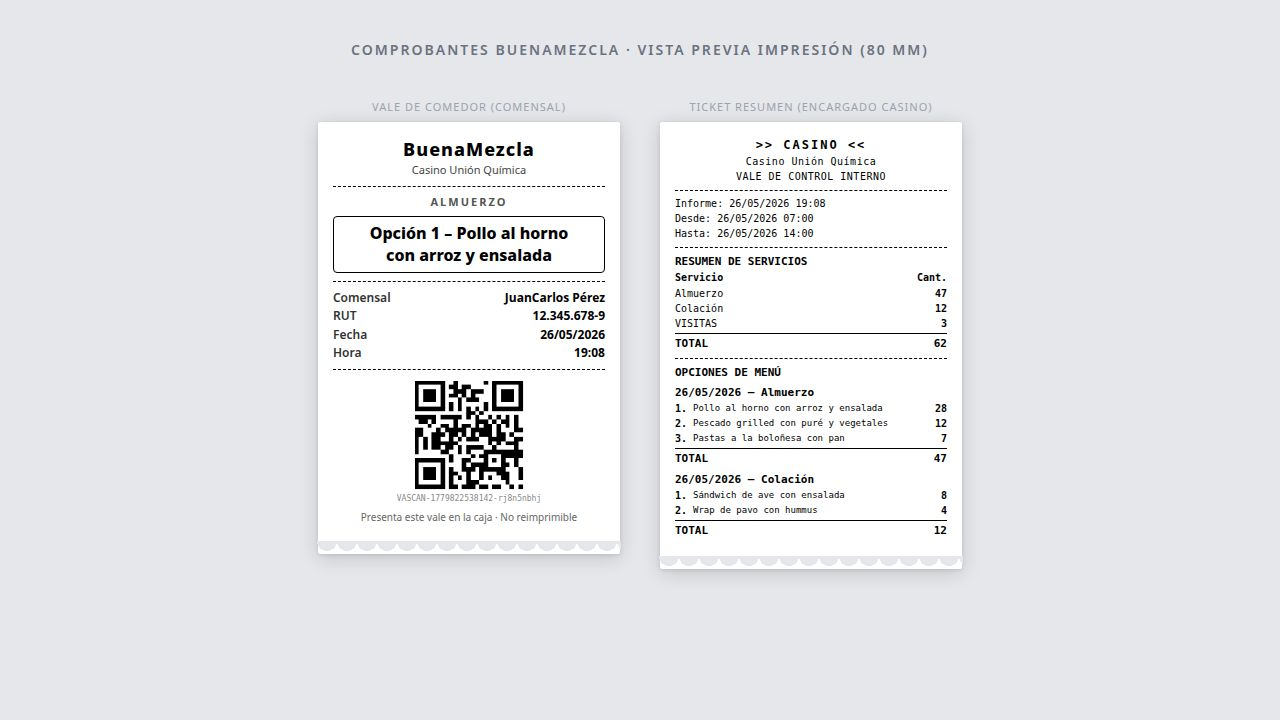
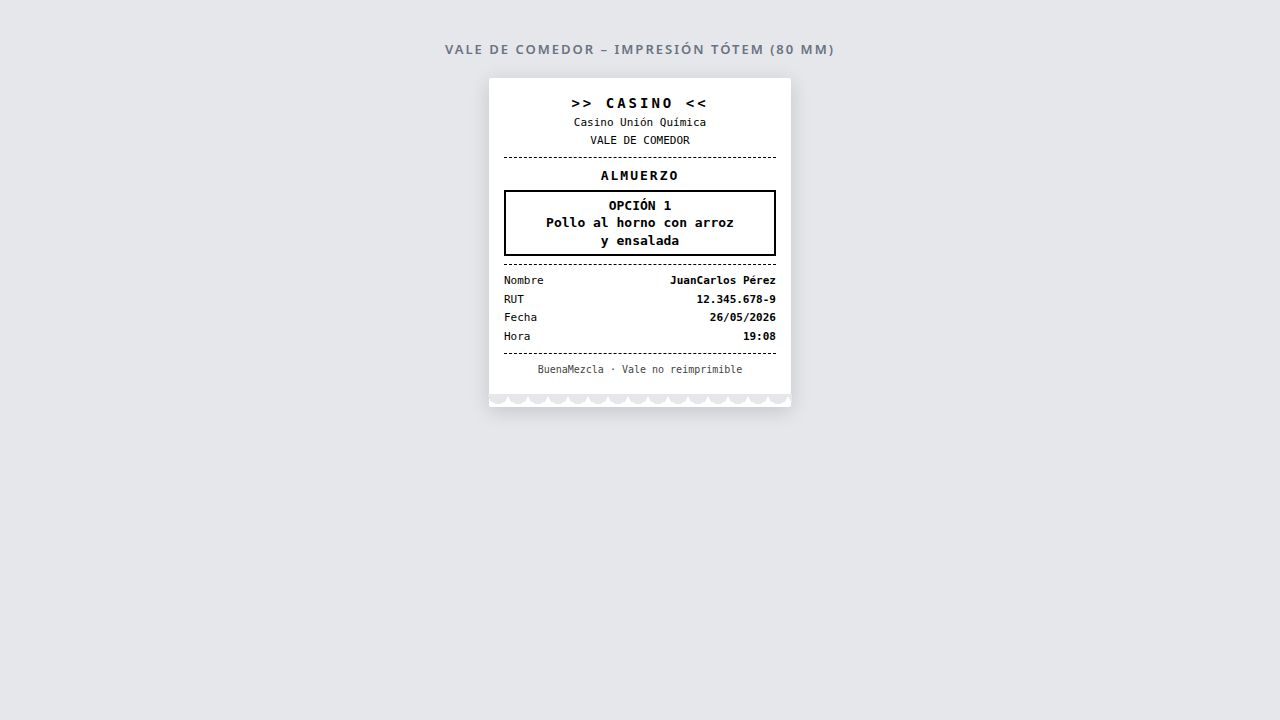
Update ticket printing to remove QR codes and use a cleaner format
Modify ticket generation to exclude QR codes, adjust styling for monospace font, and update headers for a cleaner, more readable format in the kiosk and preview.

Replit-Commit-Author: Agent
Replit-Commit-Session-Id: b3e77858-5b22-4d47-997c-fdf95565c38d
Replit-Commit-Checkpoint-Type: full_checkpoint
Replit-Commit-Event-Id: d154f62d-fc7c-4083-a4a6-2461d89e03b9
Replit-Commit-Screenshot-Url: https://storage.googleapis.com/screenshot-production-us-central1/ab328069-2a8e-4ba7-b005-7c5caf268c16/b3e77858-5b22-4d47-997c-fdf95565c38d/P0Rvg5t
Replit-Helium-Checkpoint-Created: true

Changed region(s): [[0.25, 0.0611, 0.75, 0.7944]]

diff --git a/public/ticket-preview.html b/public/ticket-preview.html
@@ -2,7 +2,6 @@
 <html lang="es">
 <head>
 <meta charset="UTF-8">
-<meta name="viewport" content="width=device-width, initial-scale=1.0">
 <title>Vale de Comedor – BuenaMezcla</title>
 <style>
   * { margin: 0; padding: 0; box-sizing: border-box; }
@@ -15,45 +14,21 @@
     min-height: 100vh;
     padding: 40px 20px;
     font-family: Arial, sans-serif;
-    gap: 40px;
+    gap: 20px;
   }
-  h1 {
-    font-size: 14px;
-    color: #6b7280;
-    text-transform: uppercase;
-    letter-spacing: 2px;
-    font-weight: 600;
-  }
-  .ticket-wrapper {
-    display: flex;
-    gap: 40px;
-    align-items: flex-start;
-    flex-wrap: wrap;
-    justify-content: center;
-  }
-  .ticket-label {
-    text-align: center;
-    font-size: 11px;
-    color: #9ca3af;
-    margin-bottom: 8px;
-    text-transform: uppercase;
-    letter-spacing: 1px;
-  }
-
-  /* ── Ticket vale (80mm térmico) ── */
+  h1 { font-size: 13px; color: #6b7280; text-transform: uppercase; letter-spacing: 2px; font-weight: 600; }
   .ticket {
-    width: 302px; /* 80mm @ 96dpi */
+    width: 302px;
     background: #fff;
     padding: 15px 15px 30px 15px;
-    font-family: "Helvetica", "Arial", sans-serif;
+    font-family: "Courier New", "Courier", monospace;
     font-size: 12px;
-    line-height: 1.35;
+    line-height: 1.5;
     color: #000;
-    box-shadow: 0 4px 20px rgba(0,0,0,0.15), 0 1px 4px rgba(0,0,0,0.1);
+    box-shadow: 0 4px 20px rgba(0,0,0,0.15);
     position: relative;
     border-radius: 2px;
   }
-  /* Torn bottom edge */
   .ticket::after {
     content: "";
     position: absolute;
@@ -63,196 +38,54 @@
     background-size: 20px 14px;
     background-repeat: repeat-x;
   }
-  .pv-center { text-align: center; }
-  .pv-brand { font-size: 18px; font-weight: 800; letter-spacing: 1px; text-align: center; }
-  .pv-sub { font-size: 11px; margin-top: 2px; text-align: center; color: #444; }
-  .pv-hr { border: none; border-top: 1px dashed #000; margin: 8px 0; }
-  .pv-familia {
-    text-align: center;
-    text-transform: uppercase;
-    font-weight: 700;
-    font-size: 11px;
-    letter-spacing: 2px;
-    color: #555;
+  .t-center   { text-align: center; }
+  .t-title    { font-size: 14px; font-weight: 800; letter-spacing: 3px; text-align: center; }
+  .t-sub      { font-size: 11px; text-align: center; margin: 1px 0; }
+  .t-hr       { border: none; border-top: 1px dashed #000; margin: 8px 0; }
+  .t-familia  { font-size: 13px; font-weight: 800; text-align: center; letter-spacing: 2px; margin: 4px 0 2px; }
+  .t-opcion   {
+    font-size: 13px; font-weight: 800; text-align: center;
+    margin: 4px 0 8px;
+    padding: 5px 6px;
+    border: 2px solid #000;
+    line-height: 1.35;
   }
-  .pv-opcion {
-    text-align: center;
-    font-size: 16px;
-    font-weight: 800;
-    margin: 6px 0;
-    padding: 6px;
-    border: 1.5px solid #000;
-    border-radius: 4px;
-  }
-  .pv-row {
-    display: flex;
-    justify-content: space-between;
-    gap: 12px;
-    margin: 2px 0;
-    font-size: 12px;
-  }
-  .pv-label { font-weight: 600; color: #333; }
-  .pv-value { text-align: right; font-weight: 700; }
-  .pv-qr { display: flex; justify-content: center; margin: 10px 0 4px; }
-  .pv-qr img { width: 110px; height: 110px; }
-  .pv-qr-code { font-size: 8px; text-align: center; color: #888; margin-bottom: 4px; font-family: monospace; }
-  .pv-foot { text-align: center; font-size: 10px; color: #666; margin-top: 6px; }
-
-  /* ── Resumen ticket ── */
-  .ticket-resumen {
-    width: 302px;
-    background: #fff;
-    padding: 15px 15px 30px 15px;
-    font-family: "Courier New", "Courier", monospace;
-    font-size: 11px;
-    line-height: 1.4;
-    color: #000;
-    box-shadow: 0 4px 20px rgba(0,0,0,0.15), 0 1px 4px rgba(0,0,0,0.1);
-    position: relative;
-    border-radius: 2px;
-  }
-  .ticket-resumen::after {
-    content: "";
-    position: absolute;
-    bottom: -1px; left: -1px; right: -1px;
-    height: 14px;
-    background: radial-gradient(circle at 50% 0%, #e5e7eb 10px, transparent 10px);
-    background-size: 20px 14px;
-    background-repeat: repeat-x;
-  }
-  .pr-center { text-align: center; }
-  .pr-title { font-size: 12px; font-weight: 800; letter-spacing: 2px; text-align: center; text-transform: uppercase; }
-  .pr-subtitle { font-size: 10px; text-align: center; margin: 1px 0; letter-spacing: 0.5px; }
-  .pr-text { font-size: 10px; margin: 1px 0; }
-  .pr-hr { border: none; border-top: 1px dashed #000; margin: 6px 0; }
-  .pr-section { font-weight: 700; font-size: 11px; margin: 5px 0 2px; }
-  .pr-col-hdr { display: flex; font-size: 10px; font-weight: 700; margin-bottom: 1px; padding-bottom: 1px; }
-  .pr-svc-row { display: flex; font-size: 10px; margin: 1px 0; }
-  .pr-col-svc { flex: 1; }
-  .pr-col-qty { width: 38px; text-align: right; font-weight: 700; white-space: nowrap; }
-  .pr-total-row { display: flex; font-size: 11px; font-weight: 800; border-top: 1px solid #000; margin-top: 2px; padding-top: 2px; }
-  .pr-date-hdr { font-weight: 700; font-size: 11px; margin: 5px 0 2px; }
-  .pr-opt-row { display: flex; font-size: 10px; margin: 1px 0; align-items: flex-start; }
-  .pr-opt-num { width: 18px; font-weight: 700; flex-shrink: 0; }
-  .pr-opt-desc { flex: 1; font-size: 9px; padding-right: 3px; word-break: break-word; }
-  .pr-opt-qty { width: 38px; text-align: right; font-weight: 700; flex-shrink: 0; }
-  .pr-opt-total { display: flex; font-size: 11px; font-weight: 800; border-top: 1px solid #000; margin-top: 2px; padding-top: 2px; }
+  .t-row      { display: flex; justify-content: space-between; font-size: 11px; margin: 2px 0; }
+  .t-label    { font-weight: 400; }
+  .t-value    { font-weight: 700; text-align: right; }
+  .t-foot     { text-align: center; font-size: 10px; margin-top: 8px; color: #444; }
 </style>
 </head>
 <body>
 
-<h1>Comprobantes BuenaMezcla · Vista previa impresión (80 mm)</h1>
+<h1>Vale de comedor – impresión tótem (80 mm)</h1>
 
-<div class="ticket-wrapper">
-
-  <!-- ── VALE INDIVIDUAL ── -->
-  <div>
-    <div class="ticket-label">Vale de comedor (comensal)</div>
-    <div class="ticket">
-      <div class="pv-brand">BuenaMezcla</div>
-      <div class="pv-sub">Casino Unión Química</div>
-      <hr class="pv-hr">
-      <div class="pv-familia">Almuerzo</div>
-      <div class="pv-opcion">Opción 1 – Pollo al horno<br>con arroz y ensalada</div>
-      <hr class="pv-hr">
-      <div class="pv-row">
-        <span class="pv-label">Comensal</span>
-        <span class="pv-value">JuanCarlos Pérez</span>
-      </div>
-      <div class="pv-row">
-        <span class="pv-label">RUT</span>
-        <span class="pv-value">12.345.678-9</span>
-      </div>
-      <div class="pv-row">
-        <span class="pv-label">Fecha</span>
-        <span class="pv-value">26/05/2026</span>
-      </div>
-      <div class="pv-row">
-        <span class="pv-label">Hora</span>
-        <span class="pv-value">19:08</span>
-      </div>
-      <hr class="pv-hr">
-      <div class="pv-qr">
-        <img src="https://api.qrserver.com/v1/create-qr-code/?size=120x120&data=VASCAN-1779822538142-rj8n5nbhj" alt="QR Vale">
-      </div>
-      <div class="pv-qr-code">VASCAN-1779822538142-rj8n5nbhj</div>
-      <div class="pv-foot">Presenta este vale en la caja · No reimprimible</div>
-    </div>
+<div class="ticket">
+  <div class="t-title">&gt;&gt; CASINO &lt;&lt;</div>
+  <div class="t-sub">Casino Unión Química</div>
+  <div class="t-sub">VALE DE COMEDOR</div>
+  <hr class="t-hr">
+  <div class="t-familia">ALMUERZO</div>
+  <div class="t-opcion">OPCIÓN 1<br>Pollo al horno con arroz<br>y ensalada</div>
+  <hr class="t-hr">
+  <div class="t-row">
+    <span class="t-label">Nombre</span>
+    <span class="t-value">JuanCarlos Pérez</span>
   </div>
-
-  <!-- ── RESUMEN DEL DÍA ── -->
-  <div>
-    <div class="ticket-label">Ticket resumen (encargado casino)</div>
-    <div class="ticket-resumen">
-      <div class="pr-title">&gt;&gt; CASINO &lt;&lt;</div>
-      <div class="pr-subtitle">Casino Unión Química</div>
-      <div class="pr-subtitle">VALE DE CONTROL INTERNO</div>
-      <hr class="pr-hr">
-      <div class="pr-text">Informe: 26/05/2026 19:08</div>
-      <div class="pr-text">Desde:   26/05/2026 07:00</div>
-      <div class="pr-text">Hasta:   26/05/2026 14:00</div>
-      <hr class="pr-hr">
-      <div class="pr-section">RESUMEN DE SERVICIOS</div>
-      <div class="pr-col-hdr">
-        <span class="pr-col-svc">Servicio</span>
-        <span class="pr-col-qty">Cant.</span>
-      </div>
-      <div class="pr-svc-row">
-        <span class="pr-col-svc">Almuerzo</span>
-        <span class="pr-col-qty">47</span>
-      </div>
-      <div class="pr-svc-row">
-        <span class="pr-col-svc">Colación</span>
-        <span class="pr-col-qty">12</span>
-      </div>
-      <div class="pr-svc-row">
-        <span class="pr-col-svc">VISITAS</span>
-        <span class="pr-col-qty">3</span>
-      </div>
-      <div class="pr-total-row">
-        <span class="pr-col-svc">TOTAL</span>
-        <span class="pr-col-qty">62</span>
-      </div>
-      <hr class="pr-hr">
-      <div class="pr-section">OPCIONES DE MENÚ</div>
-      <div class="pr-date-hdr">26/05/2026 – Almuerzo</div>
-      <div class="pr-opt-row">
-        <span class="pr-opt-num">1.</span>
-        <span class="pr-opt-desc">Pollo al horno con arroz y ensalada</span>
-        <span class="pr-opt-qty">28</span>
-      </div>
-      <div class="pr-opt-row">
-        <span class="pr-opt-num">2.</span>
-        <span class="pr-opt-desc">Pescado grilled con puré y vegetales</span>
-        <span class="pr-opt-qty">12</span>
-      </div>
-      <div class="pr-opt-row">
-        <span class="pr-opt-num">3.</span>
-        <span class="pr-opt-desc">Pastas a la boloñesa con pan</span>
-        <span class="pr-opt-qty">7</span>
-      </div>
-      <div class="pr-opt-total">
-        <span class="pr-col-svc">TOTAL</span>
-        <span class="pr-opt-qty">47</span>
-      </div>
-      <div class="pr-date-hdr">26/05/2026 – Colación</div>
-      <div class="pr-opt-row">
-        <span class="pr-opt-num">1.</span>
-        <span class="pr-opt-desc">Sándwich de ave con ensalada</span>
-        <span class="pr-opt-qty">8</span>
-      </div>
-      <div class="pr-opt-row">
-        <span class="pr-opt-num">2.</span>
-        <span class="pr-opt-desc">Wrap de pavo con hummus</span>
-        <span class="pr-opt-qty">4</span>
-      </div>
-      <div class="pr-opt-total">
-        <span class="pr-col-svc">TOTAL</span>
-        <span class="pr-opt-qty">12</span>
-      </div>
-    </div>
+  <div class="t-row">
+    <span class="t-label">RUT</span>
+    <span class="t-value">12.345.678-9</span>
   </div>
-
+  <div class="t-row">
+    <span class="t-label">Fecha</span>
+    <span class="t-value">26/05/2026</span>
+  </div>
+  <div class="t-row">
+    <span class="t-label">Hora</span>
+    <span class="t-value">19:08</span>
+  </div>
+  <hr class="t-hr">
+  <div class="t-foot">BuenaMezcla · Vale no reimprimible</div>
 </div>
 
 </body>

diff --git a/pwa/src/index.css b/pwa/src/index.css
@@ -84,9 +84,9 @@ body,
     padding: 4mm 4mm 8mm 4mm;
     color: #000;
     background: #fff;
-    font-family: "Helvetica", "Arial", sans-serif;
+    font-family: "Courier New", "Courier", monospace;
     font-size: 12px;
-    line-height: 1.35;
+    line-height: 1.5;
   }
   /* Resumen del día imprimible — solo cuando body tiene .print-resumen-mode */
   body.print-resumen-mode .print-vale,
@@ -124,31 +124,23 @@ body,
   .print-resumen .pr-opt-desc { flex: 1; font-size: 9px; padding-right: 1mm; word-break: break-word; }
   .print-resumen .pr-opt-qty  { width: 10mm; text-align: right; font-weight: 700; flex-shrink: 0; }
   .print-resumen .pr-opt-total { display: flex; font-size: 11px; font-weight: 800; border-top: 1px solid #000; margin-top: 0.5mm; padding-top: 0.5mm; }
-  .print-vale .pv-center { text-align: center; }
-  .print-vale .pv-brand { font-size: 18px; font-weight: 800; letter-spacing: 1px; }
-  .print-vale .pv-sub   { font-size: 11px; margin-top: 1mm; }
-  .print-vale .pv-hr    { border: 0; border-top: 1px dashed #000; margin: 3mm 0; }
-  .print-vale .pv-row   { display: flex; justify-content: space-between; gap: 4mm; margin: 0.8mm 0; font-size: 12px; }
-  .print-vale .pv-label { color: #000; font-weight: 600; }
-  .print-vale .pv-value { text-align: right; font-weight: 700; }
-  .print-vale .pv-opcion {
+  .print-vale .pv-title   { font-size: 13px; font-weight: 800; letter-spacing: 3px; text-align: center; }
+  .print-vale .pv-sub     { font-size: 11px; text-align: center; margin: 0.5mm 0; }
+  .print-vale .pv-hr      { border: 0; border-top: 1px dashed #000; margin: 2.5mm 0; }
+  .print-vale .pv-familia { font-size: 13px; font-weight: 800; text-align: center; letter-spacing: 2px; margin: 1mm 0 0.5mm; text-transform: uppercase; }
+  .print-vale .pv-opcion  {
     text-align: center;
-    font-size: 16px;
+    font-size: 13px;
     font-weight: 800;
-    margin: 2mm 0;
-    padding: 2mm;
-    border: 1.5px solid #000;
-    border-radius: 2mm;
+    margin: 1mm 0 2mm;
+    padding: 1.5mm 2mm;
+    border: 2px solid #000;
+    line-height: 1.35;
   }
-  .print-vale .pv-familia {
-    text-align: center;
-    text-transform: uppercase;
-    font-weight: 700;
-    font-size: 11px;
-    letter-spacing: 2px;
-  }
-  .print-vale .pv-qr { display: flex; justify-content: center; margin: 3mm 0 1mm; }
-  .print-vale .pv-foot { text-align: center; font-size: 10px; margin-top: 2mm; }
+  .print-vale .pv-row   { display: flex; justify-content: space-between; gap: 2mm; margin: 0.8mm 0; font-size: 11px; }
+  .print-vale .pv-label { font-weight: 400; }
+  .print-vale .pv-value { text-align: right; font-weight: 700; }
+  .print-vale .pv-foot  { text-align: center; font-size: 10px; margin-top: 2mm; color: #444; }
 }
 
 .animate-slide-down {

diff --git a/pwa/src/pages/Kiosk.tsx b/pwa/src/pages/Kiosk.tsx
@@ -1349,13 +1349,15 @@ export default function Kiosk() {
       {/* Layout imprimible (térmica 80mm). Solo visible en @media print. */}
       {qrCode && qrMeta && (
         <div className="print-vale" aria-hidden="true">
-          <div className="pv-center pv-brand">BuenaMezcla</div>
-          {casino?.nombre && <div className="pv-center pv-sub">{casino.nombre}</div>}
+          <div className="pv-title">&gt;&gt; CASINO &lt;&lt;</div>
+          {casino?.nombre && <div className="pv-sub">{casino.nombre}</div>}
+          <div className="pv-sub">VALE DE COMEDOR</div>
           <hr className="pv-hr" />
           <div className="pv-familia">{qrMeta.familia}</div>
           <div className="pv-opcion">{qrMeta.opcion}</div>
+          <hr className="pv-hr" />
           <div className="pv-row">
-            <span className="pv-label">Comensal</span>
+            <span className="pv-label">Nombre</span>
             <span className="pv-value">{qrMeta.nombre}</span>
           </div>
           <div className="pv-row">
@@ -1374,6 +1376,8 @@ export default function Kiosk() {
               {qrMeta.hora || new Date().toLocaleTimeString("es-CL", { hour: "2-digit", minute: "2-digit" })}
             </span>
           </div>
+          <hr className="pv-hr" />
+          <div className="pv-foot">BuenaMezcla · Vale no reimprimible</div>
         </div>
       )}
     </div>
